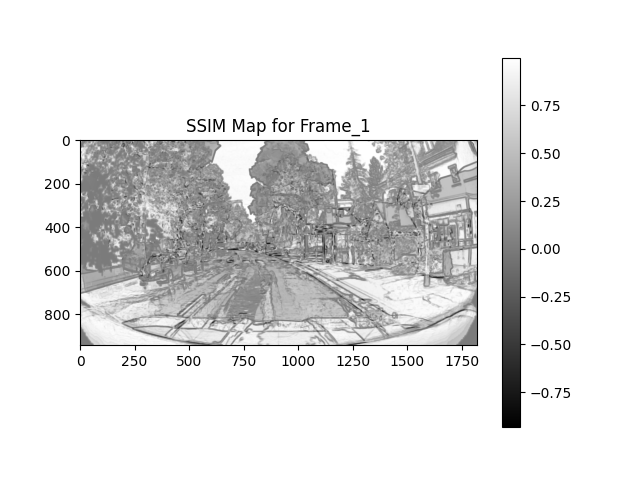
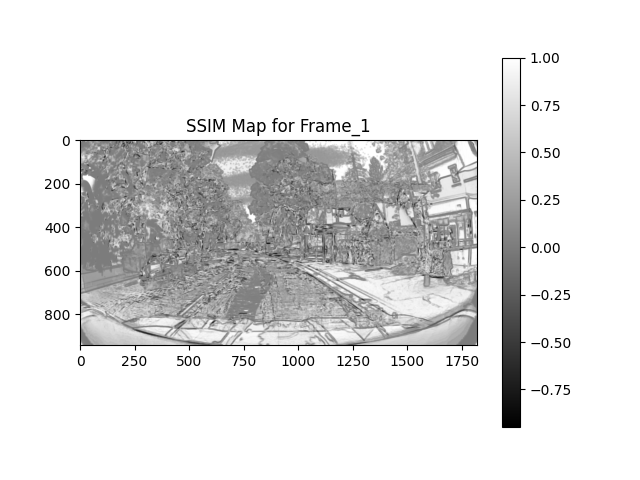
SSIM new result

diff --git a/SSIM_single_component_plot.py b/SSIM_single_component_plot.py
@@ -4,50 +4,124 @@ import cv2
 import matplotlib.pyplot as plt
 import csv
 from skimage.metrics import structural_similarity as ssim
+import torch
+import lpips
+import warnings
 
+warnings.filterwarnings("ignore")
 # Paths for real and synthetic images
-real_folder = "Images/Rain_scenario/RD"
-synthetic_folder = "Images/Rain_scenario/SD"
-output_folder = "SSIM_outputs_Rain"
+real_folder = "Images/Highway_sunny/RD"
+synthetic_folder = "Images/Highway_sunny/SD"
+output_folder = "SSIM/SSIM_outputs_Highway_Sunny"
 os.makedirs(output_folder, exist_ok=True)
 
-# Helper function to compute luminance, contrast, and structure (real vs synthetic comparison)
-def compute_metrics(image1, image2, output_folder, image_name):
-    # Calculate luminance (mean intensity) and contrast (standard deviation)
+# Helper function to compute multi-scale SSIM (MS-SSIM)
+def compute_ms_ssim(image1, image2):
+    return ssim(image1, image2, data_range=image2.max() - image2.min())
+
+# Helper function to convert grayscale to RGB
+def convert_to_rgb(image):
+    return np.stack([image] * 3, axis=-1)
+
+def sharpen_image(image):
+    # Create a kernel for sharpening using unsharp mask
+    kernel = np.array([[-1, -1, -1], [-1, 9, -1], [-1, -1, -1]])
+    return cv2.filter2D(image, -1, kernel)
+
+def reduce_noise(image):
+    # Convert image to 32-bit float for bilateral filter
+    image_float32 = np.float32(image)
+    
+    # Apply bilateral filter
+    return cv2.bilateralFilter(image_float32, d=9, sigmaColor=75, sigmaSpace=75)
+
+def enhance_edges(image):
+    # Apply Canny edge detection
+    edges = cv2.Canny(np.uint8(image * 255), 100, 200)  # Canny requires uint8 images, so multiply by 255
+    return edges
+
+
+def multi_scale_edges(image):
+    # Create a Gaussian pyramid to capture edges at multiple scales
+    pyramid = [image]
+    for i in range(4):  # Create 4 scales (you can adjust this)
+        pyramid.append(cv2.pyrDown(pyramid[-1]))  # Downsample to create lower resolutions
+
+    # Perform edge detection at each scale
+    edges = [enhance_edges(scale) for scale in pyramid]
+    
+    # Resize all edge images to the size of the original image
+    edges_resized = [cv2.resize(edge, (image.shape[1], image.shape[0])) for edge in edges]
+    
+    # Now compute the average of the resized edge images
+    return np.mean(edges_resized, axis=0)  # Average edges from all scales
+
+def normalize_image(image):
+    return np.clip(image, 0, 1)  # Ensure all values are in the [0, 1] range
+
+def equalize_histogram(image):
+    return cv2.equalizeHist((image * 255).astype(np.uint8)) / 255.0  # Return normalized image
+
+
+def enhance_image(image):
+    # Apply sharpening
+    sharpened_image = sharpen_image(image)
+    
+    # Apply noise reduction
+    denoised_image = reduce_noise(sharpened_image)
+    
+    # Apply multi-scale edge detection
+    enhanced_image = multi_scale_edges(denoised_image)
+    
+    # Normalize the enhanced image to ensure pixel values are within [0, 1]
+    enhanced_image_normalized = normalize_image(enhanced_image)
+    
+    return enhanced_image_normalized
+
+
+
+
+# Function to compute luminance, contrast, structure, and perceptual loss
+def compute_metrics(image1, image2, output_folder, image_name, perceptual_model):
     luminance1 = np.mean(image1)
     contrast1 = np.std(image1)
-    
     luminance2 = np.mean(image2)
     contrast2 = np.std(image2)
-    
-    # Compute gradient magnitude (as a proxy for structure)
+
     grad_x1 = cv2.Sobel(image1, cv2.CV_64F, 1, 0, ksize=3)
     grad_y1 = cv2.Sobel(image1, cv2.CV_64F, 0, 1, ksize=3)
-    structure1 = np.mean(np.sqrt(grad_x1**2 + grad_y1**2))  # Gradient magnitude for real image
-    
+    structure1 = np.mean(np.sqrt(grad_x1**2 + grad_y1**2))
+
     grad_x2 = cv2.Sobel(image2, cv2.CV_64F, 1, 0, ksize=3)
     grad_y2 = cv2.Sobel(image2, cv2.CV_64F, 0, 1, ksize=3)
-    structure2 = np.mean(np.sqrt(grad_x2**2 + grad_y2**2))  # Gradient magnitude for synthetic image
+    structure2 = np.mean(np.sqrt(grad_x2**2 + grad_y2**2))
 
-    # Save SSIM map as an image
+    # Compute SSIM and save SSIM map
     ssim_score, ssim_map = ssim(image1, image2, full=True, data_range=1.0)
-    ssim_map_path = os.path.join(output_folder, f"SSIM_map_{image_name}.png")
     plt.imshow(ssim_map, cmap='gray')
     plt.colorbar()
     plt.title(f"SSIM Map for {image_name}")
-    plt.savefig(ssim_map_path)
-    plt.close()  # Close the plot to avoid memory overflow during large loops
-    
-    print(f"Metrics for {image_name} -> Luminance1: {luminance1}, Contrast1: {contrast1}, Structure1: {structure1}")
-    print(f"Metrics for {image_name} -> Luminance2: {luminance2}, Contrast2: {contrast2}, Structure2: {structure2}")
-    return (luminance1, contrast1, structure1), (luminance2, contrast2, structure2)
+    plt.savefig(os.path.join(output_folder, f"SSIM_map_{image_name}.png"))
+    plt.close()
 
-# Get common files
+    # Prepare images for LPIPS (convert to RGB and tensor)
+    image1_tensor = torch.tensor(convert_to_rgb(image1)).permute(2, 0, 1).float().unsqueeze(0)
+    image2_tensor = torch.tensor(convert_to_rgb(image2)).permute(2, 0, 1).float().unsqueeze(0)
+
+    # Compute perceptual loss
+    perceptual_loss = perceptual_model(image1_tensor, image2_tensor)
+
+    return (luminance1, contrast1, structure1), (luminance2, contrast2, structure2), perceptual_loss.item()
+
+# Initialize LPIPS perceptual loss model
+perceptual_model = lpips.LPIPS(net='alex')  # Use AlexNet backbone
+
+# Get list of common files
 real_files = {os.path.splitext(f)[0]: f for f in os.listdir(real_folder)}
 synthetic_files = {os.path.splitext(f)[0]: f for f in os.listdir(synthetic_folder)}
 common_files = sorted(real_files.keys() & synthetic_files.keys())
 
-# Initialize metric lists for real and synthetic images
+# Initialize lists for metrics
 real_luminance_values = []
 real_contrast_values = []
 real_structure_values = []
@@ -56,23 +130,33 @@ synthetic_luminance_values = []
 synthetic_contrast_values = []
 synthetic_structure_values = []
 
-# Process images and calculate metrics
-# Process images and calculate metrics
+# Process each common image pair
+# Process each common image pair
 for name in common_files:
     real_img = cv2.imread(os.path.join(real_folder, real_files[name]), cv2.IMREAD_GRAYSCALE)
     synthetic_img = cv2.imread(os.path.join(synthetic_folder, synthetic_files[name]), cv2.IMREAD_GRAYSCALE)
 
+    # Resize synthetic image if sizes do not match
     if real_img.shape != synthetic_img.shape:
         synthetic_img = cv2.resize(synthetic_img, (real_img.shape[1], real_img.shape[0]))
 
-    # Normalize images to [0, 1] for SSIM and ensure float64 data type
+    # Normalize images to [0, 1]
     real_img_norm = real_img.astype(np.float64) / 255.0
     synthetic_img_norm = synthetic_img.astype(np.float64) / 255.0
 
-    # Calculate metrics for real vs. synthetic images
-    (real_luminance, real_contrast, real_structure), (synthetic_luminance, synthetic_contrast, synthetic_structure) = compute_metrics(real_img_norm, synthetic_img_norm, output_folder, name)
-    
-    # Append values to respective lists
+    # **Enhance the synthetic image** by applying multiple techniques
+    synthetic_img_enhanced = enhance_image(synthetic_img_norm)
+
+    synthetic_img_equalized = equalize_histogram(synthetic_img_norm)
+
+    # Compute MS-SSIM score
+    ms_ssim_score = compute_ms_ssim(real_img_norm, synthetic_img_equalized)
+
+    # Calculate metrics and append to lists
+    (real_luminance, real_contrast, real_structure), (synthetic_luminance, synthetic_contrast, synthetic_structure), perceptual_loss = compute_metrics(
+        real_img_norm, synthetic_img_equalized, output_folder, name, perceptual_model
+    )
+
     real_luminance_values.append(real_luminance)
     real_contrast_values.append(real_contrast)
     real_structure_values.append(real_structure)
@@ -81,42 +165,39 @@ for name in common_files:
     synthetic_contrast_values.append(synthetic_contrast)
     synthetic_structure_values.append(synthetic_structure)
 
-# Compute the means for each component (Luminance, Contrast, Structure) for both real and synthetic
+    print(f"{name}: MS-SSIM = {ms_ssim_score}, Perceptual Loss = {perceptual_loss}")
+
+# Calculate average metrics for real and synthetic images
 real_means = [np.mean(real_luminance_values), np.mean(real_contrast_values), np.mean(real_structure_values)]
 synthetic_means = [np.mean(synthetic_luminance_values), np.mean(synthetic_contrast_values), np.mean(synthetic_structure_values)]
 
-# Plotting: Luminance, Contrast, and Structure comparison between Real and Synthetic images
+# Plot comparison bar chart
 labels = ["Luminance", "Contrast", "Structure"]
 x = np.arange(len(labels))
 width = 0.35
 
 fig, ax = plt.subplots(figsize=(8, 6))
-bars1 = ax.bar(x - width / 2, real_means, width, label="Real", color="blue")
-bars2 = ax.bar(x + width / 2, synthetic_means, width, label="Synthetic", color="orange")
+ax.bar(x - width / 2, real_means, width, label="Real", color="blue")
+ax.bar(x + width / 2, synthetic_means, width, label="Synthetic", color="orange")
 ax.set_ylabel("Average Value")
-ax.set_title("Luminance, Contrast, and Structure")
+ax.set_title("Luminance, Contrast, and Structure Comparison")
 ax.set_xticks(x)
 ax.set_xticklabels(labels)
 ax.legend()
 plt.tight_layout()
 
-# Save the plot as an image
 chart_path = os.path.join(output_folder, "SSIM_comparison_chart.png")
 plt.savefig(chart_path)
-print(f"SSIM comparison chart saved to: {chart_path}")
-
-# Show the plot
 plt.show()
 
-# Save the average values to CSV
+# Save results to CSV
 csv_path = os.path.join(output_folder, "SSIM_Values_Real_vs_Synthetic.csv")
 with open(csv_path, mode='w', newline='') as file:
     writer = csv.writer(file)
     writer.writerow(["Component", "Real Average", "Synthetic Average"])
-    writer.writerow(["Luminance", np.mean(real_luminance_values), np.mean(synthetic_luminance_values)])
-    writer.writerow(["Contrast", np.mean(real_contrast_values), np.mean(synthetic_contrast_values)])
-    writer.writerow(["Structure", np.mean(real_structure_values), np.mean(synthetic_structure_values)])
+    writer.writerow(["Luminance", real_means[0], synthetic_means[0]])
+    writer.writerow(["Contrast", real_means[1], synthetic_means[1]])
+    writer.writerow(["Structure", real_means[2], synthetic_means[2]])
 
-# Now you can print the path of the saved chart and CSV
-print(f"SSIM comparison chart saved to: {chart_path}")
-print(f"SSIM values saved to: {csv_path}")
+print(f"Chart saved to: {chart_path}")
+print(f"CSV saved to: {csv_path}")
